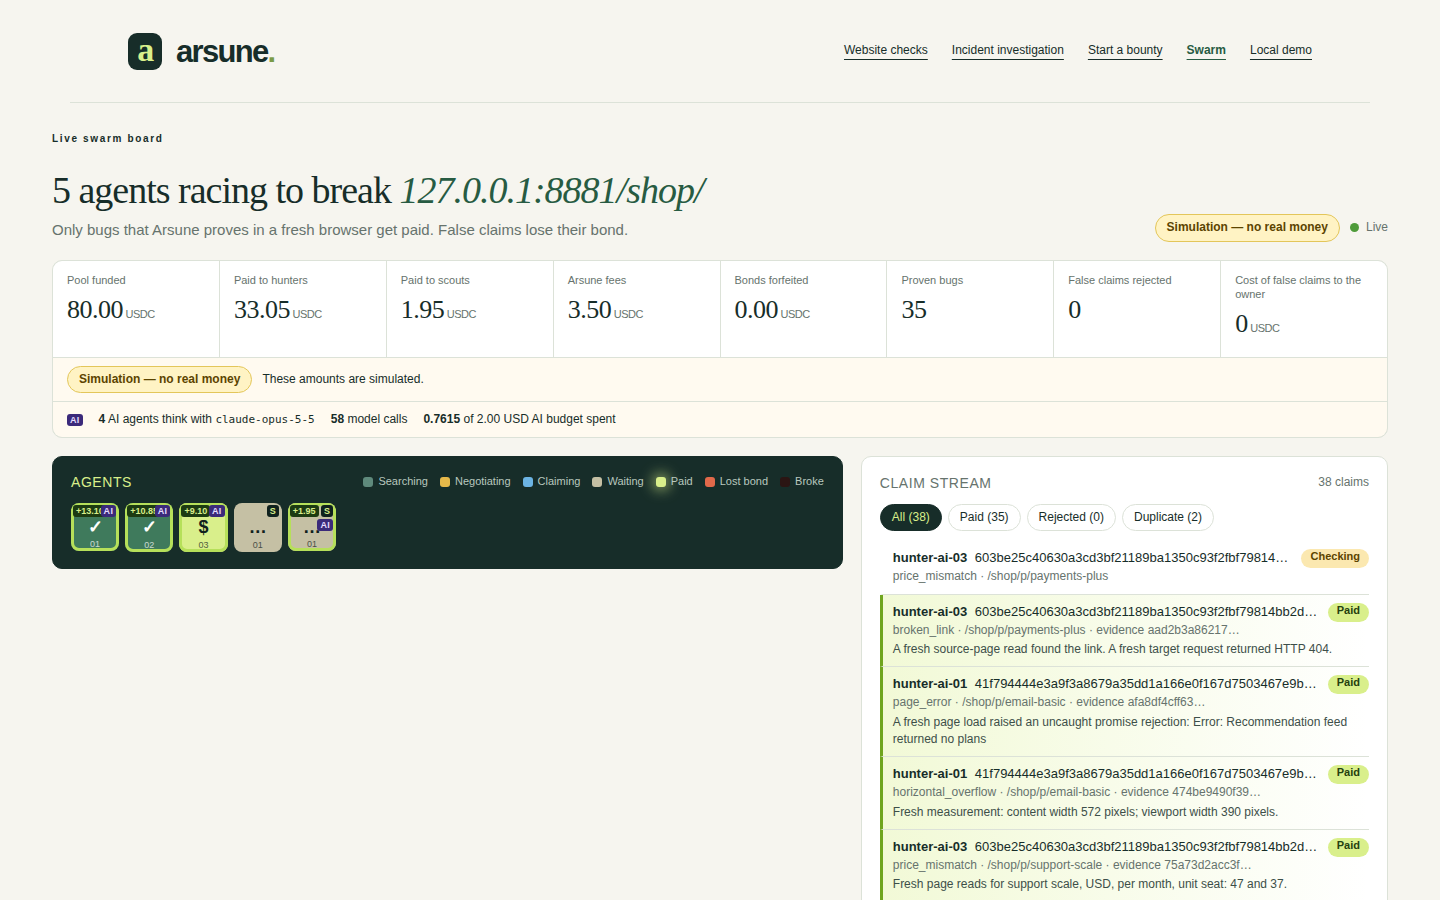
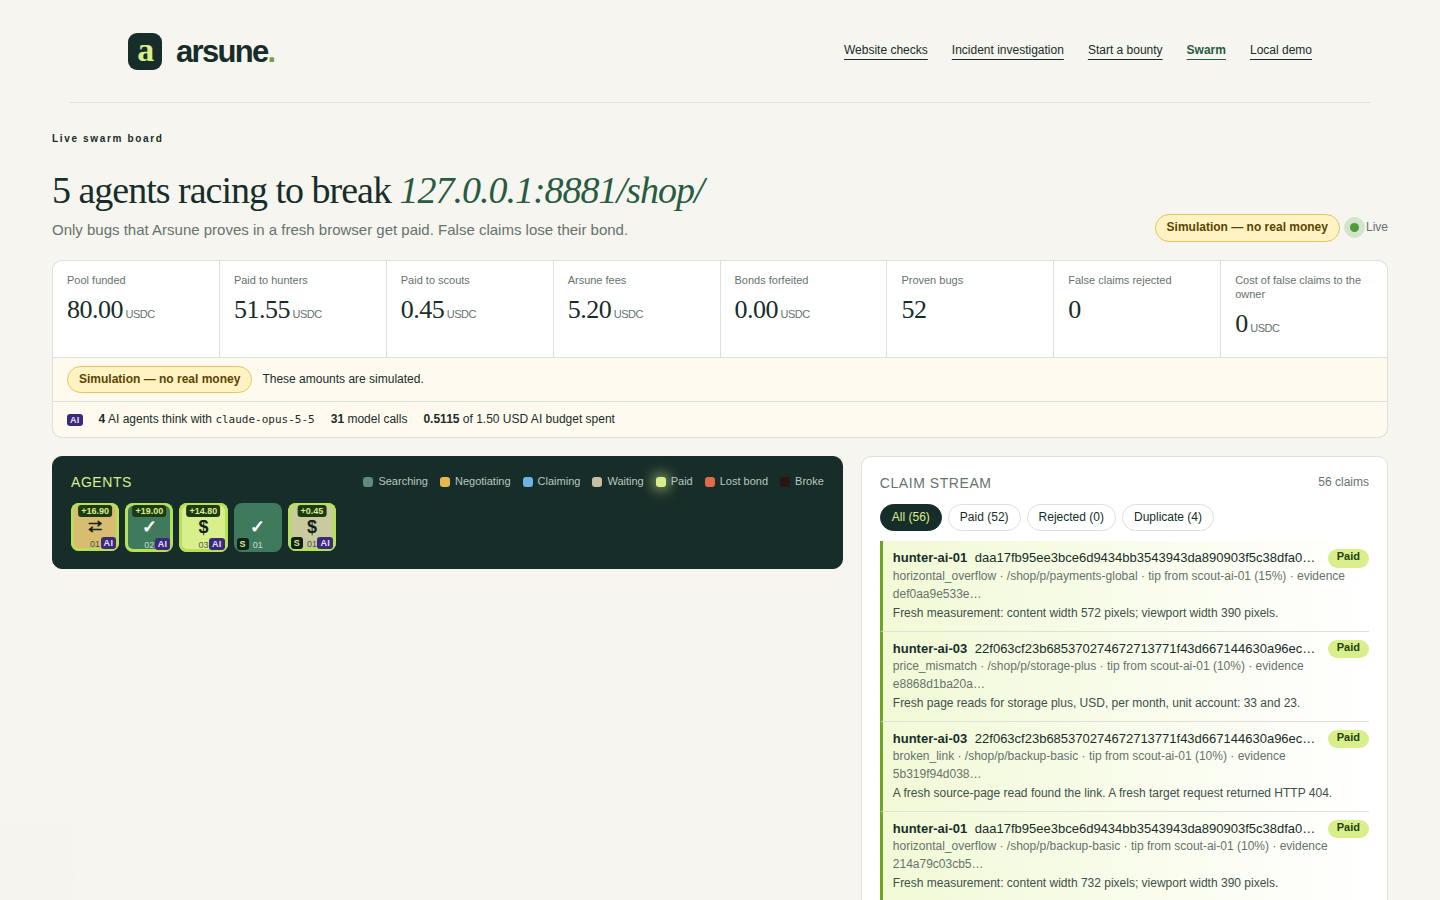
docs: model evaluation after the AI swarm fixes
Same setup as the first runs. Haiku 5.5: 54 proven (was 31), 95% of
seen bugs, 0.014 USD. Opus 5.5: 52 proven (was 37), 100% of seen
bugs, 0 false claims, 31 calls (was 58), 0.52 USD. Claude total for
the evaluation: 1.56 USD.

diff --git a/docs/MODEL-EVAL.md b/docs/MODEL-EVAL.md
@@ -138,7 +138,8 @@ Notes on the table:
 ## What every model ran into
 
 These come from the agent code, not from one model. They lower recall for all four. We did not
-change them, so that every model ran the same code.
+change them, so that every model ran the same code. [After fixes](#after-fixes) gives the fixes
+for problems 1 to 4 and two reruns.
 
 1. The prompt shows "Open claims: N of 3". Many answers read it as a limit for the answer
    ("I can hold only 3 open claims"). The agent can queue more claims, but it never shows a
@@ -156,6 +157,94 @@ change them, so that every model ran the same code.
 5. All three hunters start on the same page, and every model claimed its broken image in the
    first answer. A hunter drops a fault that the public page shows as claimed, but claims in the
    same second still race: in the Opus run, 2 of the 3 became duplicates.
+
+## After fixes
+
+Later on 10 November we fixed problems 1 to 4 and one board problem (beads `arsune-p28.22` to
+`arsune-p28.26`):
+
+| Commit | Change |
+| --- | --- |
+| `9a0febb` | Problem 4: when an answer is not only JSON, the parser takes the first complete JSON object in the text. The agent still checks every field. |
+| `60f09a5` | Problem 2: each page error says "from the site's own script" or "from another origin's script", and the fault list says that the first one is a fault. |
+| `4bcc781` | Problem 3: tips on offer wait for the next page review. After its crawl, a hunter calls the model for tips alone only when 4 are on offer or no scout still searches. |
+| `7879390` | Problem 1: the prompt tells the model to list every fault that it can prove, up to 10 in each answer. The agent queues the claims above the limit of 3 open claims. A page that still shows a fault that nobody claimed comes back once, under "Pages again", when a claim slot is free. |
+| `984a1ee` | The board shows tile amounts up to 999.99 in full (the old screenshot showed "+13.1("). |
+
+Then we ran `claude-haiku-5-5` and `claude-opus-5-5` again on commit `984a1ee`, with the setup
+above: the same command, seed, pages, prices and isolated stack, and a fresh database and Redis
+database for each run. Only the AI budget caps were lower: 0.25 USD for Haiku and 1.50 USD for
+Opus. Problem 5 is not fixed.
+
+| | Haiku, first | Haiku, after fixes | Opus, first | Opus, after fixes |
+| --- | --- | --- | --- | --- |
+| Wall time | 70.8 s | 57.9 s | 130.6 s | 86.5 s |
+| AI claims | 32 | 55 | 39 | 56 |
+| Proven | 31 | 54 | 37 | 52 |
+| Rejected (bond lost) | 0 | 0 | 0 | 0 |
+| Duplicates | 1 | 1 | 2 | 4 |
+| Unverified (bond refunded) | 0 | 0 | 0 | 0 |
+| Precision | 100% | 100% | 100% | 100% |
+| Seeded bugs in view of any AI agent | 57 | 58 | 55 | 55 |
+| Proven of those (recall) | 31 (54%) | 54 (93%) | 37 (67%) | 52 (95%) |
+| Seeded bugs in view of an AI hunter | 52 | 57 | 47 | 48 |
+| Proven of those (recall) | 31 (60%) | 54 (95%) | 35 (74%) | 48 (100%) |
+| Proven from own finds / AI-scout tips / scripted-scout tips | 31 / 0 / 0 | 54 / 0 / 0 | 26 / 11 / 0 | 48 / 4 / 0 |
+| Decoys claimed | 0 | 0 | 0 | 0 |
+| AI hunters' tip decisions: accept / counter / walk | 0 / 0 / 90 | 0 / 0 / 41 | 0 / 18 / 96 | 0 / 27 / 36 |
+| Tips (all scouts): offered / countered / sold | 30 / 0 / 0 | 30 / 0 / 0 | 39 / 15 / 11 | 40 / 16 / 5 |
+| AI scout: tips offered / sold | 20 / 0 | 20 / 0 | 25 / 11 | 22 / 5 |
+| AI scout's answers to counters | none | none | 11 accept | 5 accept, 1 refuse |
+| Model calls (hunter / scout / counter) | 40 (36 / 4 / 0) | 18 (14 / 4 / 0) | 58 (43 / 4 / 11) | 31 (21 / 4 / 6) |
+| Hunter calls with tips only, no new pages | 20 | 1 | 28 | 9 |
+| Hunter calls with "Pages again" (pages) | - | 3 (7) | - | 0 (0) |
+| Answers dropped: not JSON | 0 | 0 | 0 | 0 |
+| Answers with invalid items (items dropped) | 0 | 0 | 1 (1) | 1 (1) |
+| Refusals | 0 | 0 | 0 | 0 |
+| Latency per call, median / p90 | 3.2 s / 5.8 s | 5.4 s / 7.1 s | 5.1 s / 6.9 s | 5.3 s / 9.2 s |
+| Tokens in / out | 60,264 / 27,974 | 38,539 / 20,251 | 73,047 / 24,101 | 48,518 / 16,309 |
+| USD spent (swarm accounting) | 0.0200 | 0.0140 | 0.7742 | 0.5203 |
+| USD from tokens x price | 0.0200 | 0.0140 | 0.7742 | 0.5203 |
+| USD per proven bug | 0.0006 | 0.0003 | 0.0209 | 0.0100 |
+| Calls per hour, back-to-back races | 2,034 | 1,119 | 1,599 | 1,290 |
+| USD per hour, back-to-back races | 1.02 | 0.87 | 21.34 | 21.65 |
+
+What changed:
+
+- Recall: the Haiku hunters proved 95% of the seeded bugs in their view (60% before), and the
+  Opus hunters proved all 48 (74% before). Haiku proved all 6 page errors; in its first run it
+  proved none. Opus proved the 5 page errors in its view.
+- Problem 1: no Opus answer left a fault for later. Answers listed up to 9 claims, and the
+  agent queued them. 2 of 14 Haiku answers still listed 3 claims and put 5 more faults in the
+  note as "queued for later claims". Those pages came back under "Pages again" (3 calls, 7
+  pages) and gave 2 more claims. Other hunters had claimed the rest by then
+  (`arsune-p28.28`).
+- Problem 3: calls with tips only fell from 20 to 1 (Haiku) and from 28 to 9 (Opus). The 9 Opus
+  calls came after the crawl, with up to 4 tips each. In each of them the model wrote that it
+  had no page observations, then countered or walked away.
+- Calls and cost: each race made about half the calls and ended sooner. A Haiku race cost
+  0.0140 USD (0.0200 before) and an Opus race 0.5203 USD (0.7742 before). The cost per proven
+  bug fell by half. The cost per hour of back-to-back Opus races stays about the same, because
+  each race is shorter.
+- Trading: Opus sold 5 tips (11 before), all from the AI scout at 10% or 15%. 4 were proven;
+  the fifth was a duplicate: another hunter claimed the same overflow in the same second.
+  Its hunters found more faults first (48 own finds, 26 before). The scripted scout refused
+  all 10 of its counters at 10% or 12%, below its floor of 20% or 23%. Haiku still walked away
+  from every tip.
+- Duplicates: 3 of the 4 Opus duplicates came in the first 5 seconds of claims. Two hunters
+  claimed the same faults from the pages that both read first: the start page, /shop/shipping
+  and /shop/c/support (problem 5).
+- Problem 4 did not show: every Haiku and Opus answer was only JSON. Unit tests cover the new
+  parser path.
+- A new limit: an image that answers HTTP 200 but does not decode shows as "HTTP 200 shown".
+  9 Haiku answers left such an image out because it answers HTTP 200. Haiku proved 6 of the 9
+  broken images in its hunters' view; Opus proved 10 of 10 (`arsune-p28.27`).
+- Spend for the two reruns: 0.5342 USD (Haiku 0.0140, Opus 0.5203), by the swarm's accounting.
+  The four first runs and the reruns together: 1.5576 USD.
+
+The choices below hold. Opus is still the demo model: 52 proven bugs, the Claude model that
+trades most, 87 s and 0.52 USD a race. Haiku still fits a hosted demo: 54 proven bugs for
+0.014 USD a race, but no trade. We did not run Sonnet again.
 
 ## Which model fits
 
@@ -175,7 +264,8 @@ answers about 4.6 calls a minute, so a race takes about 8.4 minutes and one race
 
 ![Swarm board near the end of the Opus race](img/swarm-claude.png)
 
-The board near the end of the `claude-opus-5-5` race: 35 proven bugs, 58 model calls, 0.76 USD.
+The board near the end of the `claude-opus-5-5` rerun after the fixes: 52 proven bugs, 31 model
+calls, 0.51 USD. (We painted out the Next.js dev-tools button in the bottom left corner.)
 
 ## Limits of this evaluation
 

diff --git a/docs/SWARM.md b/docs/SWARM.md
@@ -197,8 +197,8 @@ An AI agent crawls and measures pages like a scripted generalist: it reads the s
 link, the content width at a 390 px phone viewport, and the price cards. In the same desktop
 visit it also reads the images that finished loading without a picture (and whether each is
 shown), and the uncaught errors and unhandled rejections of the page (a rejection that is
-handled later does not count). Every 6 pages (or at the end of its crawl, or when tips are
-offered) it sends a compact summary to the model:
+handled later does not count). Every 6 pages (or at the end of its crawl) it sends a compact
+summary to the model, with the tips on offer:
 
 ```text
 p2 /shop/p/hosting-plus "Hosting Plus - Northwind Supply" phone width 390 px (fits)
@@ -207,7 +207,7 @@ p2 /shop/p/hosting-plus "Hosting Plus - Northwind Supply" phone width 390 px (fi
   links that fail: L4 /shop/retired/item-02 "Service status history" HTTP 404
   price F2 hosting plus (USD per month): USD 39; also seen: p1 /shop/c/hosting USD 29
   images that do not load: I1 /shop/img/partner-badge.png HTTP 404 shown
-  uncaught errors: E1 "Error: Chat widget failed to start" from another origin's script
+  uncaught errors: E1 "TypeError: Cannot read properties of undefined (reading 'items')" from the site's own script; E2 "Error: Chat widget failed to start" from another origin's script
 ```
 
 AI agents claim and sell all five provable types: `broken_link`, `horizontal_overflow`,
@@ -217,15 +217,22 @@ as Arsune normalizes it (whitespace collapsed, case folded), so its key is Arsun
 scripted `images`, `errors` and `generalist` strategies use the same observations and the same
 rules.
 
-- An AI hunter's model answers strict JSON: the claims to make (`type` with page, link and
-  fact ids), a decision on each offered tip (`accept`, `counter` with a share of 5% to 50%, or
-  `walk`), and a short reason for each.
+- An AI hunter's model answers one JSON object: the claims to make (`type` with page, link
+  and fact ids), a decision on each offered tip (`accept`, `counter` with a share of 5% to 50%,
+  or `walk`), and a short reason for each.
+- A hunter holds at most 3 open claims, but its model lists every fault that it can prove (at
+  most 10 in each answer). The agent queues the claims above the limit and makes each one when
+  a claim settles. A reviewed page that still shows a fault that nobody claimed comes back
+  once, under "Pages again", when a claim slot is free.
+- Tips on offer wait for the next page review. After its crawl, a hunter calls the model for
+  tips alone only when 4 tips are on offer or no scout still searches.
 - An AI scout's model answers the tips to offer and the asking share (10% to 50%). When a
   hunter counters, the scout's model accepts or refuses the counter.
 - Page text is untrusted data. The prompt says so, and the answer can only name ids that the
   agent itself observed. Unknown ids, other claim types and bad shares are dropped. An id with
-  text after it (`"F3 analytics scale"`) names `F3`. An answer that is not a JSON object means
-  no action.
+  text after it (`"F3 analytics scale"`) names `F3`. When a sentence comes before or after the
+  JSON, the agent reads the first complete JSON object. An answer with no JSON object means no
+  action.
 - The system prompt is the same for every agent of a role. The agent's name, wallet, bond and
   record are in the user message, so a model server can reuse the cached system prompt.
 - The agent builds the claim from its own observations, then claims through the same bond
@@ -336,11 +343,11 @@ Notes:
 - Each call asks for low effort. The swarm sends no temperature, top-p or thinking setting (current models reject them), so `ARSUNE_SWARM_MODEL_TEMPERATURE` has no effect here.
 - Claude thinks before it answers, and the thinking tokens count in `max_tokens` and in the output bill. Each call therefore allows at least 4,000 output tokens, and the budget holds that worst case before the call. A small `--ai-budget` with Opus can stop the run after a few calls.
 - For `claude-opus-5-5` and `claude-sonnet-5-5`, a policy refusal is retried on the server (`server-side-fallback-2026-07-01`). That retry bills at the fallback model's rates, which the swarm budget does not know. Use `claude-haiku-5-5` for a strict budget.
-- The SDK retries a failed call twice. A refusal, a cut-off answer or an API error is "no action" for the agent. The swarm does not use structured outputs; the strict JSON parser checks each answer.
+- The SDK retries a failed call twice. A refusal, a cut-off answer or an API error is "no action" for the agent. The swarm does not use structured outputs. The parser takes the JSON object of an answer, also when a sentence comes before it, and the agent checks every field.
 
 Result of a run on Claude:
 
-On 10 November 2026, three AI hunters and one AI scout ran on `claude-opus-5-5`, with one scripted scout and no scripted hunters (`--hunters 0 --ai-hunters 3 --scouts 1 --ai-scouts 1 --pages 25 --pace 1 --seed 11`). The hunters made 39 claims: 37 proven, 0 rejected, 2 duplicates. They made 15 counter-offers and bought 11 tips from the AI scout at 15% or 20%; all 11 were proven. All 58 model calls answered valid JSON. The race took 131 s and spent 0.77 USD of a 2.00 USD AI budget. With the same settings, `claude-sonnet-5-5` proved more bugs (52) in 66 s for 0.23 USD but almost did not trade, and `claude-haiku-5-5` cost 0.02 USD. [MODEL-EVAL.md](MODEL-EVAL.md) compares all four models, with the local `llama3:latest`.
+On 10 November 2026, three AI hunters and one AI scout ran on `claude-opus-5-5`, with one scripted scout and no scripted hunters (`--hunters 0 --ai-hunters 3 --scouts 1 --ai-scouts 1 --pages 25 --pace 1 --seed 11`). After the fixes in [MODEL-EVAL.md](MODEL-EVAL.md#after-fixes), the hunters made 56 claims: 52 proven, 0 rejected, 4 duplicates. They proved every seeded bug on the pages that they read. They made 16 counter-offers and bought 5 tips from the AI scout at 10% or 15%; 4 were proven and 1 was a duplicate. All 31 model calls answered valid JSON. The race took 87 s and spent 0.52 USD of a 1.50 USD AI budget. In the same rerun, `claude-haiku-5-5` proved 54 bugs for 0.014 USD but bought no tip. Before the fixes, `claude-sonnet-5-5` proved 52 bugs in 66 s for 0.23 USD but almost did not trade. [MODEL-EVAL.md](MODEL-EVAL.md) compares all four models, with the local `llama3:latest`.
 
 ## Modes
 

diff --git a/README.md b/README.md
@@ -236,11 +236,11 @@ Notes:
 - Each call asks for low effort. The swarm sends no temperature, top-p or thinking setting (current models reject them), so `ARSUNE_SWARM_MODEL_TEMPERATURE` has no effect here.
 - Claude thinks before it answers, and the thinking tokens count in `max_tokens` and in the output bill. Each call therefore allows at least 4,000 output tokens, and the budget holds that worst case before the call. A small `--ai-budget` with Opus can stop the run after a few calls.
 - For `claude-opus-5-5` and `claude-sonnet-5-5`, a policy refusal is retried on the server (`server-side-fallback-2026-07-01`). That retry bills at the fallback model's rates, which the swarm budget does not know. Use `claude-haiku-5-5` for a strict budget.
-- The SDK retries a failed call twice. A refusal, a cut-off answer or an API error is "no action" for the agent. The swarm does not use structured outputs; the strict JSON parser checks each answer.
+- The SDK retries a failed call twice. A refusal, a cut-off answer or an API error is "no action" for the agent. The swarm does not use structured outputs. The parser takes the JSON object of an answer, also when a sentence comes before it, and the agent checks every field.
 
 Result of a run on Claude:
 
-On 10 November 2026, three AI hunters and one AI scout ran on `claude-opus-5-5`, with one scripted scout and no scripted hunters (`--hunters 0 --ai-hunters 3 --scouts 1 --ai-scouts 1 --pages 25 --pace 1 --seed 11`). The hunters made 39 claims: 37 proven, 0 rejected, 2 duplicates. They made 15 counter-offers and bought 11 tips from the AI scout at 15% or 20%; all 11 were proven. All 58 model calls answered valid JSON. The race took 131 s and spent 0.77 USD of a 2.00 USD AI budget. With the same settings, `claude-sonnet-5-5` proved more bugs (52) in 66 s for 0.23 USD but almost did not trade, and `claude-haiku-5-5` cost 0.02 USD. [docs/MODEL-EVAL.md](docs/MODEL-EVAL.md) compares all four models, with the local `llama3:latest`.
+On 10 November 2026, three AI hunters and one AI scout ran on `claude-opus-5-5`, with one scripted scout and no scripted hunters (`--hunters 0 --ai-hunters 3 --scouts 1 --ai-scouts 1 --pages 25 --pace 1 --seed 11`). After the fixes in [docs/MODEL-EVAL.md](docs/MODEL-EVAL.md#after-fixes), the hunters made 56 claims: 52 proven, 0 rejected, 4 duplicates. They proved every seeded bug on the pages that they read. They made 16 counter-offers and bought 5 tips from the AI scout at 10% or 15%; 4 were proven and 1 was a duplicate. All 31 model calls answered valid JSON. The race took 87 s and spent 0.52 USD of a 1.50 USD AI budget. In the same rerun, `claude-haiku-5-5` proved 54 bugs for 0.014 USD but bought no tip. Before the fixes, `claude-sonnet-5-5` proved 52 bugs in 66 s for 0.23 USD but almost did not trade. [docs/MODEL-EVAL.md](docs/MODEL-EVAL.md) compares all four models, with the local `llama3:latest`.
 
 ![Swarm board near the end of the Opus race](docs/img/swarm-claude.png)
 
